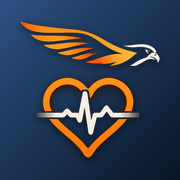
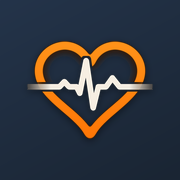
Icones sense falcó i pantalla d'inici d'Android blau pissarra

diff --git a/sw.js b/sw.js
@@ -1,6 +1,6 @@
 // Pla Cardíac · funcionament sense connexió
 // Quan canviïs l'app, puja el número de versió perquè els mòbils agafin la nova.
-const VERSION = "placardiac-v3";
+const VERSION = "placardiac-v3-icones";
 const APP = [
   "./",
   "index.html",
